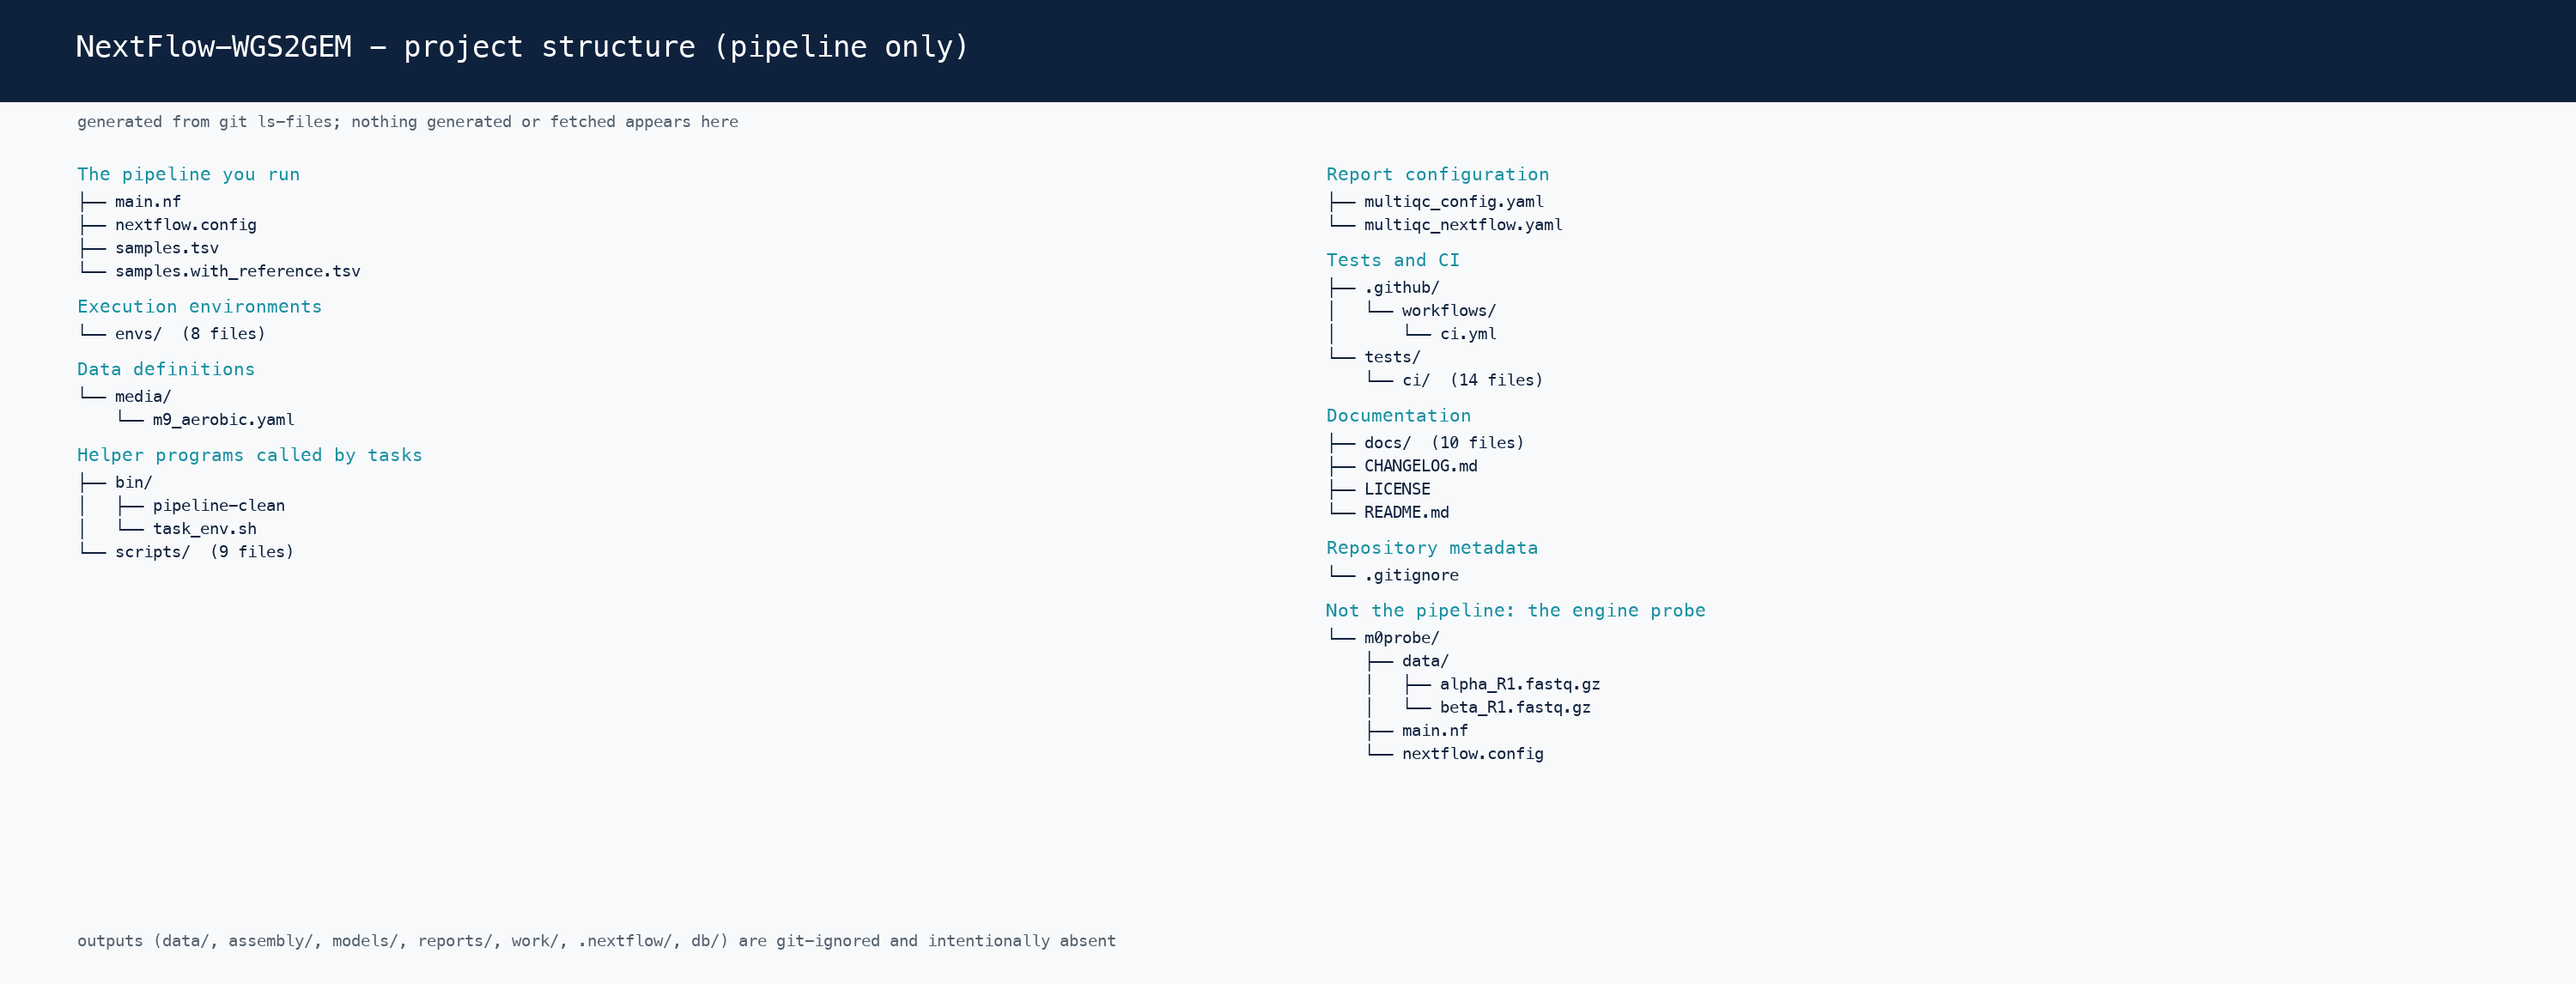
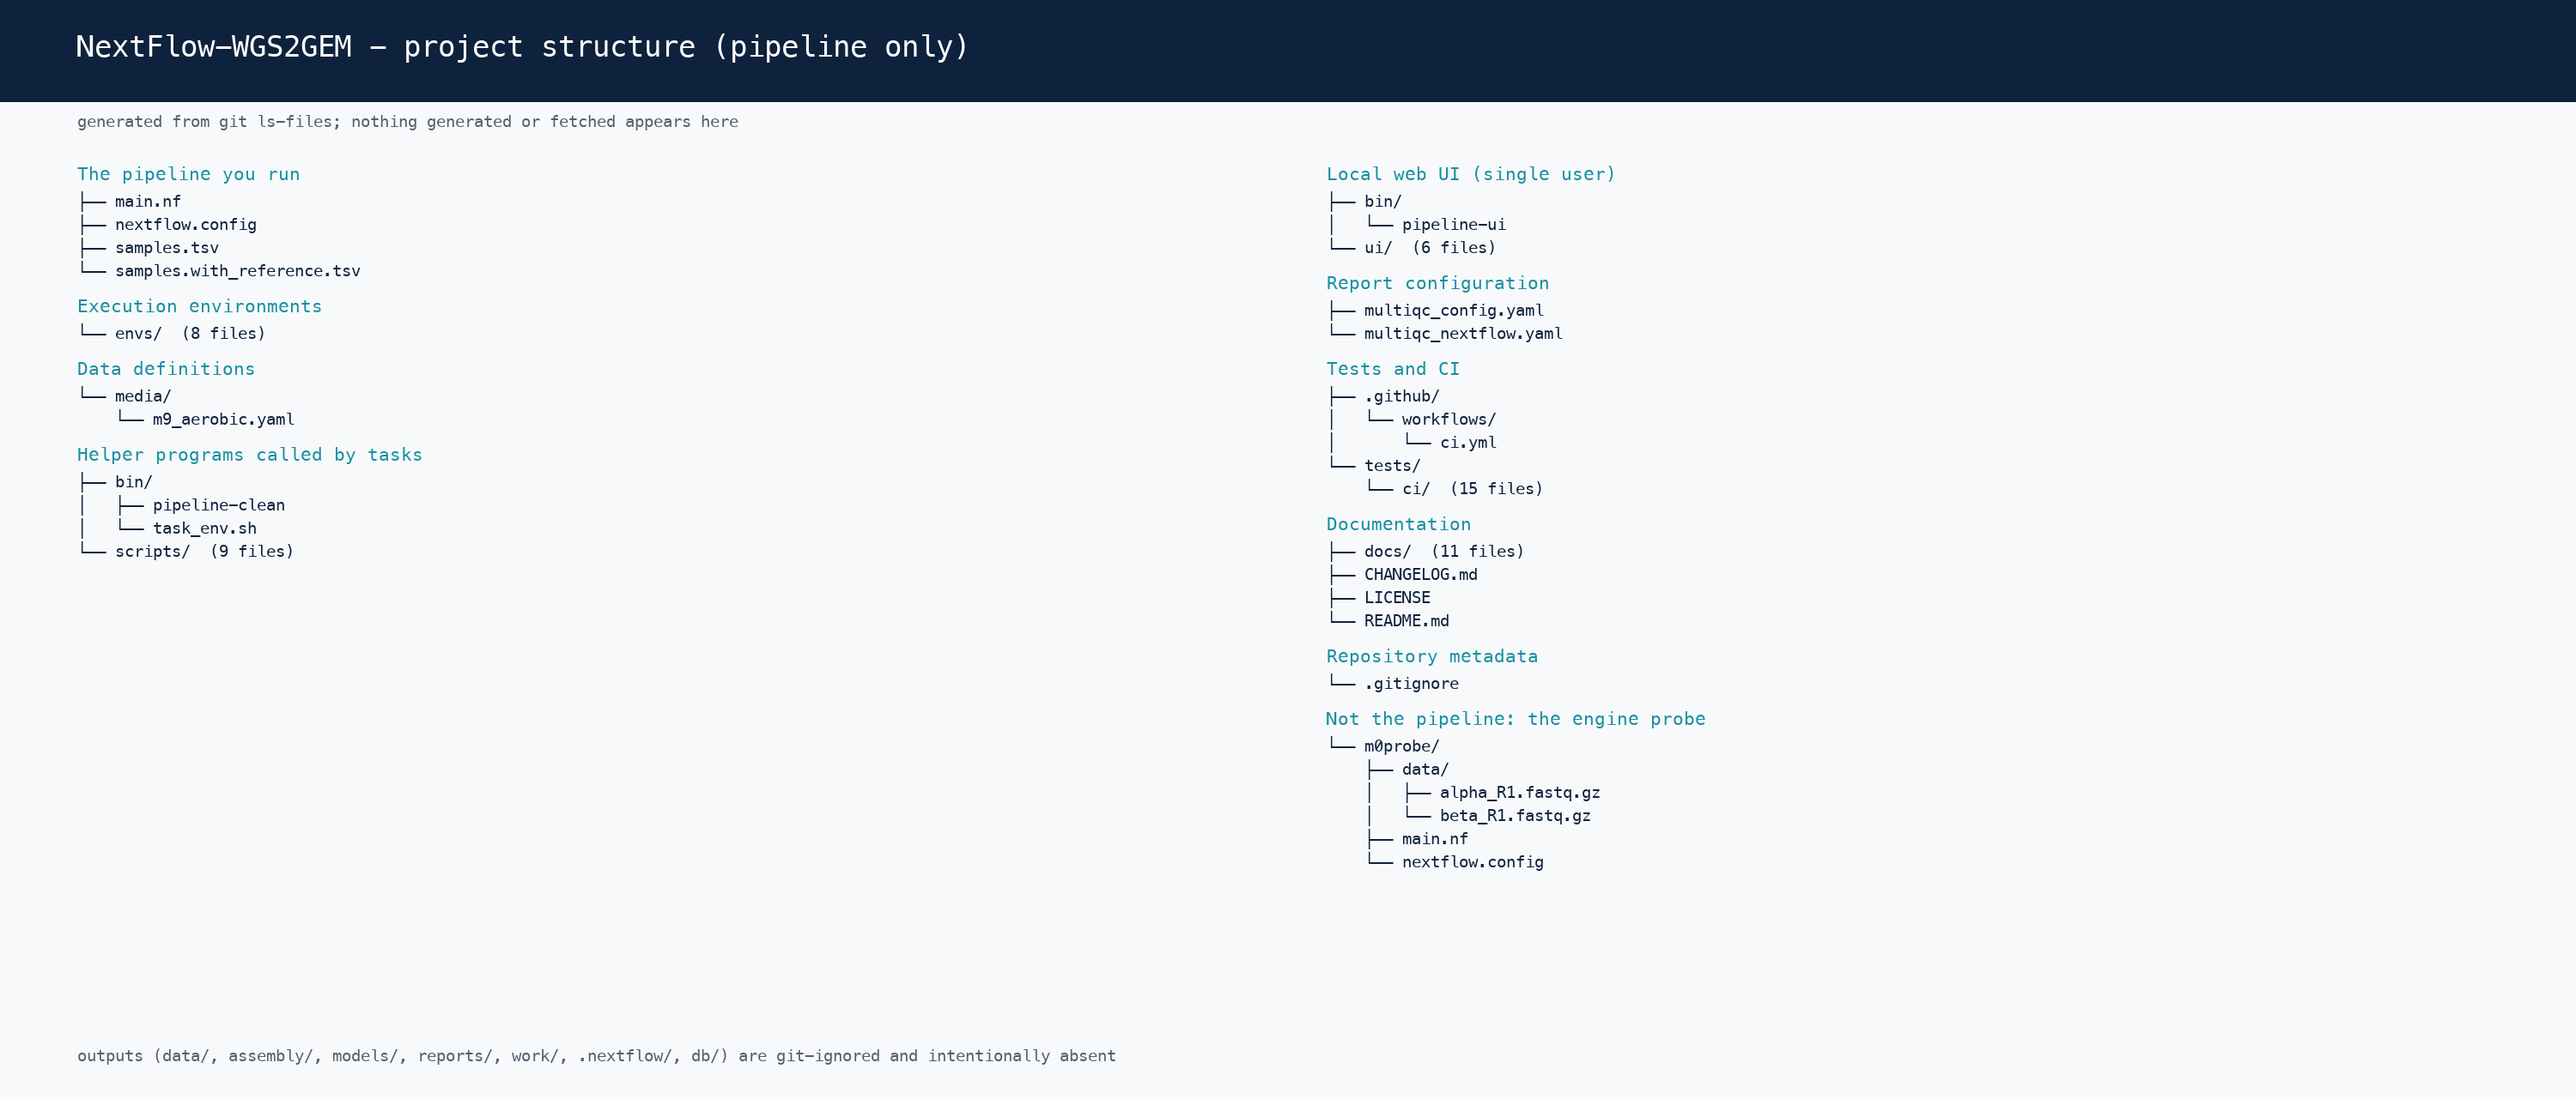
docs: regenerate the project tree figure now that Pillow is reachable
The Pillow-enabled environment under .nextflow/conda/ produced the updated PNG
(112,187 -> 118,779 bytes) and the same 81-file markdown with the new commit id.

diff --git a/docs/project-structure.md b/docs/project-structure.md
@@ -1,6 +1,6 @@
 # Project structure (the pipeline only)
 
-Generated from `git ls-files` at commit `5edf247` by `docs/make_structure.py` -- **regenerate it, do not hand-edit**. Because only tracked files are read, generated artefacts and fetched databases cannot appear below: the "pipeline only" property is structural.
+Generated from `git ls-files` at commit `c1ce0cc` by `docs/make_structure.py` -- **regenerate it, do not hand-edit**. Because only tracked files are read, generated artefacts and fetched databases cannot appear below: the "pipeline only" property is structural.
 
 81 tracked files, in the order you would read them:
 
